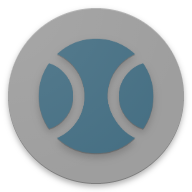
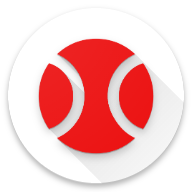
Change app colors to red

diff --git a/lib/pages/home.dart b/lib/pages/home.dart
@@ -102,11 +102,12 @@ class _HomePageState extends State<HomePage> {
       appBar: AppBar(
         //leading: Container(), //removes back button
         //overide default back arrow to exit program
+        backgroundColor: Colors.red[600],
         leading: BackButton(
           onPressed: () => SystemNavigator.pop(),
         ),
 
-        title: Text('Bot Controller'),
+        title: Text('piBot'),
         centerTitle: true,
         actions: [
           PopupMenuButton(
@@ -138,6 +139,7 @@ class _HomePageState extends State<HomePage> {
           mainAxisAlignment: MainAxisAlignment.center,
           children: [
             FloatingActionButton(
+              backgroundColor: Colors.red[600],
               heroTag: 'X',
               child: Text(
                 'X',
@@ -157,6 +159,7 @@ class _HomePageState extends State<HomePage> {
               height: 20.0,
             ),
             FloatingActionButton(
+              backgroundColor: Colors.red[600],
               heroTag: 'Y',
               child: Text(
                 'Y',

diff --git a/lib/pages/about.dart b/lib/pages/about.dart
@@ -6,6 +6,7 @@ class About extends StatelessWidget {
     return Scaffold(
       backgroundColor: Colors.grey[500],
       appBar: AppBar(
+        backgroundColor: Colors.red[600],
         title: Text('About'),
         centerTitle: true,
       ),
@@ -58,7 +59,7 @@ class About extends StatelessWidget {
                   radius: 60.0,
                 ),
                 Text(
-                  'Bot Controller',
+                  'piBot',
                   style: TextStyle(
                     fontSize: 28.0,
                     fontWeight: FontWeight.bold,

diff --git a/lib/pages/settings.dart b/lib/pages/settings.dart
@@ -31,6 +31,7 @@ class _SettingsState extends State<Settings> {
     return Scaffold(
       backgroundColor: Colors.grey[500],
       appBar: AppBar(
+        backgroundColor: Colors.red[600],
         title: Text('Settings'),
         centerTitle: true,
         //overide default back arrow to return data
@@ -51,7 +52,7 @@ class _SettingsState extends State<Settings> {
           },
         ),
         SizedBox(
-          height: 8.0,
+          height: 2.0,
         ),
         Text(
           'Current Bot IP: $ipaddress',

diff --git a/lib/main.dart b/lib/main.dart
@@ -13,7 +13,7 @@ class MyApp extends StatelessWidget {
   Widget build(BuildContext context) {
     return MaterialApp(
       debugShowCheckedModeBanner: false,
-      title: 'Bot Controller',
+      title: 'piBot',
       initialRoute: '/home',
       routes: {
         '/': (context) => Loading(),
